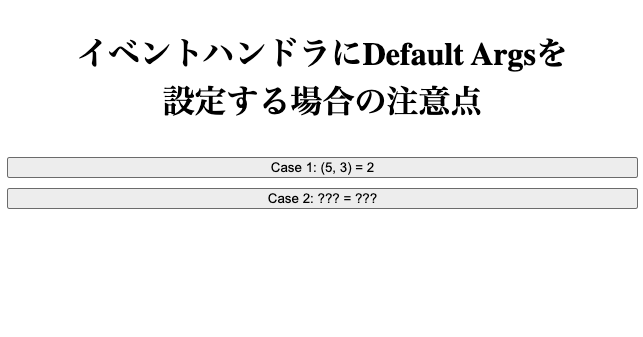
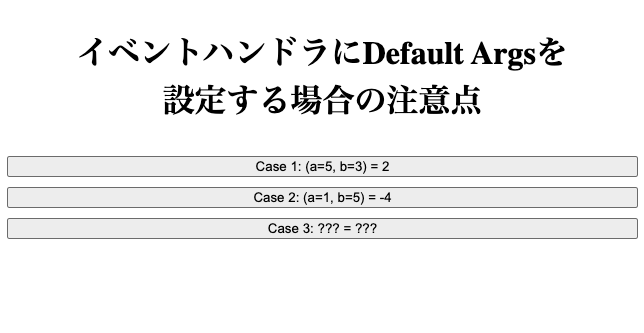
before Elaboration

diff --git a/articles/doc11-event-handler-for-react-button-in-ts.md b/articles/doc11-event-handler-for-react-button-in-ts.md
@@ -2,7 +2,7 @@
 title: "Reactでイベントプロパティには"
 emoji: "📑"
 type: "tech" # tech: 技術記事 / idea: アイデア
-topics: []
+topics: [JavaScript, React, TypeScript]
 published: false
 ---
 
@@ -10,7 +10,7 @@ published: false
 
 Reactのイベントハンドラの引数では, 第一引数にイベントオブジェクトが渡されます。
 しかし人間は愚かな生き物なため、この事実を忘れて誤ったデフォルトの引数を設定し、コードをバグらせることがあります。
-初歩的な内容ではあるのですが、かくいう私も、「イベントハンドラの返り値がNaNになる」不具合を生じさせてしまいました。
+初歩的な内容ではあるのですが、かくいう私も愚か無事に、「イベントハンドラの返り値がNaNになる」不具合を生じさせてしまいました。
 
 しかもエラーを吐かないがために、デバックに小一時間かかりストレスフルだったので、
 自分への教訓として書き残しておこうと思います。
@@ -44,10 +44,13 @@ export default function App() {
       </h1>
 
       {/* 正しい順番（例：a=5, b=3）の場合 */}
-      <button onClick={() => handleClick(5, 3)}>Case 1: (5, 3) = 2</button>
+      <button onClick={() => handleClick(5, 3)}>Case 1: (a=5, b=3) = 2</button>
+
+      {/* 引数を指定しないが無名関数を用いる場合 */}
+      <button onClick={() => handleClick()}>Case 2: (a=1, b=5) = -4</button>
 
       {/* イベントオブジェクトが a に入るがエラーにはならない（NaNが出る） */}
-      <button onClick={handleClick}>Case 2: ??? = ???</button>
+      <button onClick={handleClick}>Case 3: ??? = ???</button>
     </div>
   );
 }
@@ -56,5 +59,30 @@ export default function App() {
 
 
 
-
 ![alt text](/images/doc11/image.png)
+
+一見すると、問題なさそうなコードですが、実際に実行してみると以下のような結果になります。
+
+- Case1は正常に動作する(a -b = 2)が帰ってくる
+- Case2も正常に動作する(a -b = -4)が帰ってくる
+- Case3はNaNが帰ってくる
+
+
+# 原因と予防策
+
+Case3がNaNが帰ってくる理由は、イベントハンドラの第一引数にはイベントオブジェクトが渡されるためです。
+そのため、bにはデフォルト引数の`5`が渡される一方で、aの値は数値ではなくObjectとなってしまいます。
+このため、a - b の計算ができず、NaNが返ってくるのです。
+
+タチが悪いのは、TypescriptではなくJavascriptを利用する場合、明示的にエラーが発生しない事です。
+逆にTypescriptで上記のようなコードを書くと、下記のようなエラーがEditorで確認できるはずです。
+
+```text
+Type '(a?: number, b?: number) => number' is not assignable to type 'MouseEventHandler<HTMLButtonElement>'.
+```
+
+予防策としては、教訓として脳に刻み込むか、やはりTypeScriptを使用してコンパイル時にエラーを検知することが有効です。
+
+# 結論
+結論、私は愚かな生き物なので、脳に刻み込むだけでは不十分だと認識しています。
+ですのでTypeScriptとともに生きていくことを決意した次第です。
